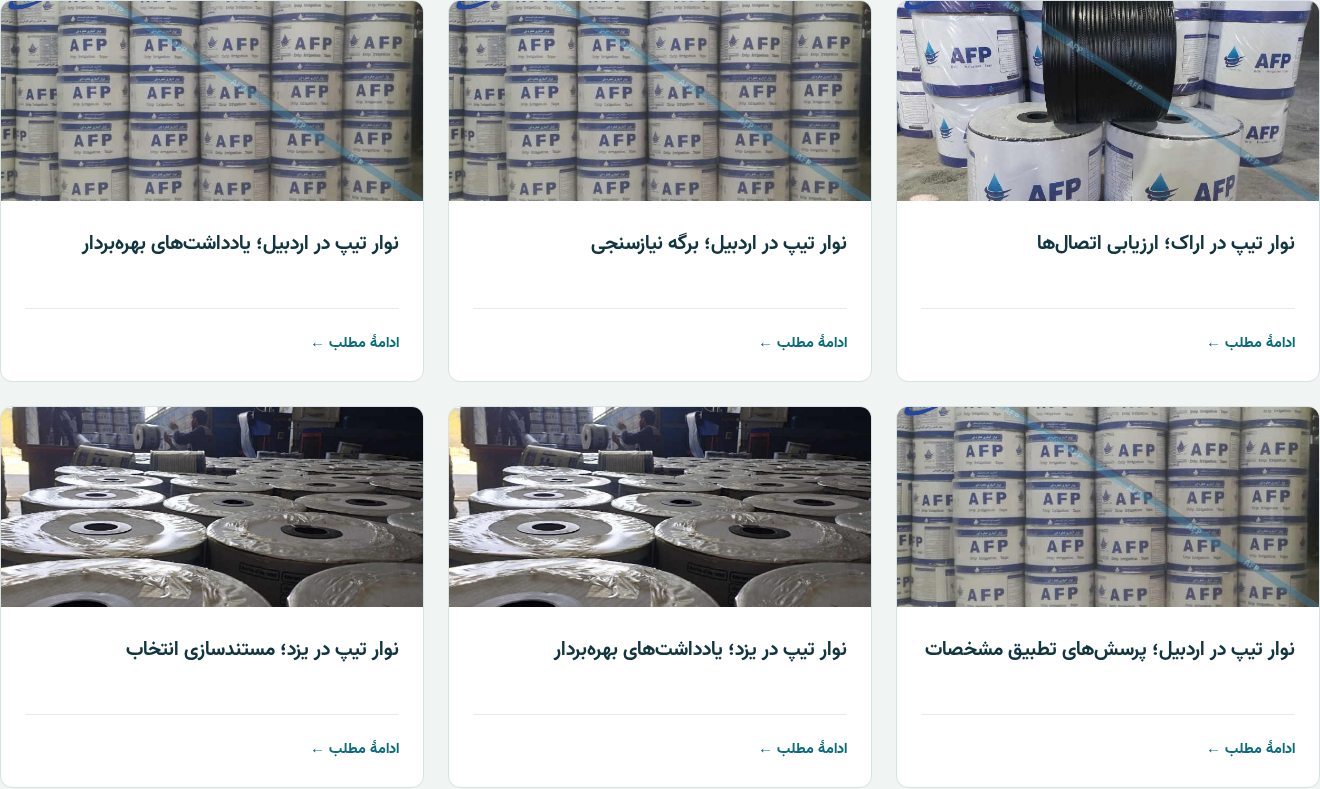
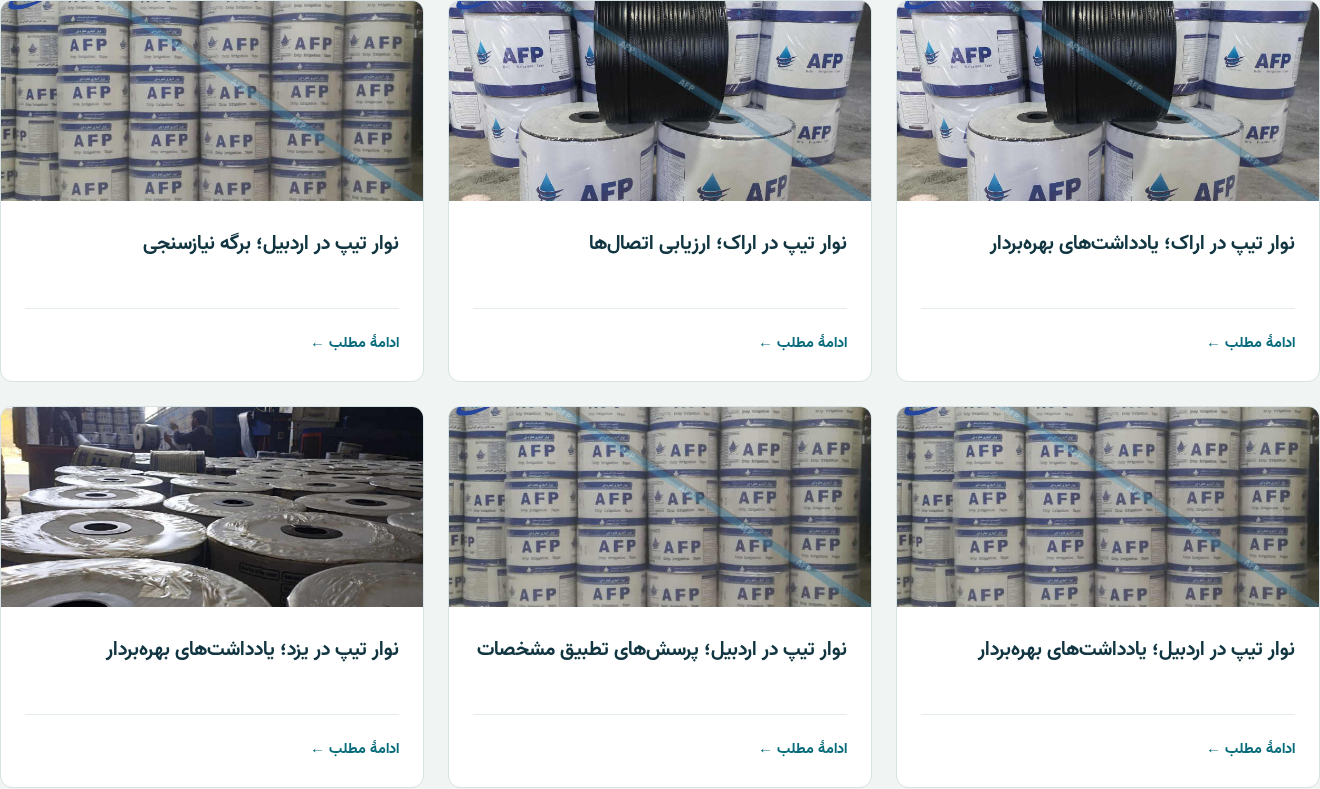
Checkpoint verified Blogsky native outcome [skip ci]

diff --git a/artifacts/blogsky-backlink-queue/home-card-images/before.html b/artifacts/blogsky-backlink-queue/home-card-images/before.html
@@ -27,12 +27,12 @@ body:has(#afp-home) .sidebar>.menu:has(>.head>a[href="/posts"]) a:focus-visible{
 @media(max-width:760px){body:has(#afp-home) .sidebar>.menu:has(>.head>a[href="/posts"])>ul{width:calc(100% - 40px)}#afp-home #guides{padding-top:40px}}
 @media(max-width:650px){body:has(#afp-home) .sidebar>.menu:has(>.head>a[href="/posts"])>ul{grid-template-columns:minmax(0,1fr)}#afp-home .afp-journal-heading{align-items:flex-start;flex-direction:column;gap:12px}}
 /*]]>*//* AFP_LIVE_CARD_IMAGES_START */
+body:has(#afp-home) .sidebar>.menu:has(>.head>a[href="/posts"])>ul>li>a[href="/1405/08/06/post-27/nvar-tip-dar-arag-erzeabi-ettesal-ha"]::before{background-image:url("https://navar-abyari.ir/wp-content/uploads/%D9%86%D9%88%D8%A7%D8%B1-%D8%A2%D8%A8%DB%8C%D8%A7%D8%B1%DB%8C.jpg");background-size:cover;background-position:center}
 body:has(#afp-home) .sidebar>.menu:has(>.head>a[href="/posts"])>ul>li>a[href="/1405/08/06/post-26/navar-tip-ardabil-needs-assessment"]::before{background-image:url("https://navar-abyari.ir/wp-content/uploads/%D9%86%D9%88%D8%A7%D8%B1-%D8%AA%DB%8C%D9%BE-%D8%A7%D8%B1%D8%AF%D8%A8%DB%8C%D9%84.jpg");background-size:cover;background-position:center}
 body:has(#afp-home) .sidebar>.menu:has(>.head>a[href="/posts"])>ul>li>a[href="/1405/08/06/post-25/navar-tip-dar-ardabil-yaddasht-haye-bahrebardar"]::before{background-image:url("https://navar-abyari.ir/wp-content/uploads/%D9%86%D9%88%D8%A7%D8%B1-%D8%AA%DB%8C%D9%BE-%D8%A7%D8%B1%D8%AF%D8%A8%DB%8C%D9%84.jpg");background-size:cover;background-position:center}
 body:has(#afp-home) .sidebar>.menu:has(>.head>a[href="/posts"])>ul>li>a[href="/1405/08/06/post-24/nvar-tip-dar-ardabil-porsesh-haye-tatbiq-mashehat"]::before{background-image:url("https://navar-abyari.ir/wp-content/uploads/%D9%86%D9%88%D8%A7%D8%B1-%D8%AA%DB%8C%D9%BE-%D8%A7%D8%B1%D8%AF%D8%A8%DB%8C%D9%84.jpg");background-size:cover;background-position:center}
 body:has(#afp-home) .sidebar>.menu:has(>.head>a[href="/posts"])>ul>li>a[href="/1405/08/05/post-23/navar-tip-yazd-yaddasht-bahrebardar"]::before{background-image:url("https://navar-abyari.ir/wp-content/uploads/%D9%86%D9%88%D8%A7%D8%B1-%D8%A2%D8%A8%DB%8C%D8%A7%D8%B1%DB%8C-%DB%8C%D8%B2%D8%AF-%D8%B9%D8%A7%D9%84%DB%8C.jpg");background-size:cover;background-position:center}
 body:has(#afp-home) .sidebar>.menu:has(>.head>a[href="/posts"])>ul>li>a[href="/1405/08/05/post-22/nvar-tip-dar-yazd-mosadagesazi-intekhob"]::before{background-image:url("https://navar-abyari.ir/wp-content/uploads/%D9%86%D9%88%D8%A7%D8%B1-%D8%A2%D8%A8%DB%8C%D8%A7%D8%B1%DB%8C-%DB%8C%D8%B2%D8%AF-%D8%B9%D8%A7%D9%84%DB%8C.jpg");background-size:cover;background-position:center}
-body:has(#afp-home) .sidebar>.menu:has(>.head>a[href="/posts"])>ul>li>a[href="/1405/08/05/post-21/navar-tip-yazd-filter-status"]::before{background-image:url("https://navar-abyari.ir/wp-content/uploads/%D9%86%D9%88%D8%A7%D8%B1-%D8%A2%D8%A8%DB%8C%D8%A7%D8%B1%DB%8C-%DB%8C%D8%B2%D8%AF-%D8%B9%D8%A7%D9%84%DB%8C.jpg");background-size:cover;background-position:center}
 /* AFP_LIVE_CARD_IMAGES_END */</style><div id="afp-home" lang="fa" dir="rtl">
 <div class="top"><div class="wrap"><span class="top-note">راهنمای کاربردی AFP · آبیاری و انتقال آب</span><a href="tel:+989134922013">مشاورهٔ انتخاب تجهیزات: ۰۹۱۳۴۹۲۲۰۱۳</a></div></div>
 <header><div class="wrap brandbar"><a class="brand" href="/"><img src="https://navar-abyari.ir/wp-content/uploads/نوار-تیپ-afp-drip-tape.png" alt="لوگوی AFP" width="52" height="52" /><span><strong>آبگستر فرا پارسیان</strong><small>انتخاب آگاهانه، آبیاری بهتر</small></span></a><a class="btn alt" href="https://navar-abyari.ir/shop/">فروشگاه AFP ←</a></div><div class="navline"><nav class="wrap" aria-label="فهرست اصلی"><a href="#products">تجهیزات آبیاری</a><a href="#guides">راهنماها و یادداشتها</a><a href="#faq">پرسشهای متداول</a><a href="#contact">تماس و مشاوره</a></nav></div></header>

diff --git a/artifacts/blogsky-backlink-queue/home-card-images/candidate.html b/artifacts/blogsky-backlink-queue/home-card-images/candidate.html
@@ -27,12 +27,12 @@ body:has(#afp-home) .sidebar>.menu:has(>.head>a[href="/posts"]) a:focus-visible{
 @media(max-width:760px){body:has(#afp-home) .sidebar>.menu:has(>.head>a[href="/posts"])>ul{width:calc(100% - 40px)}#afp-home #guides{padding-top:40px}}
 @media(max-width:650px){body:has(#afp-home) .sidebar>.menu:has(>.head>a[href="/posts"])>ul{grid-template-columns:minmax(0,1fr)}#afp-home .afp-journal-heading{align-items:flex-start;flex-direction:column;gap:12px}}
 /*]]>*//* AFP_LIVE_CARD_IMAGES_START */
+body:has(#afp-home) .sidebar>.menu:has(>.head>a[href="/posts"])>ul>li>a[href="/1405/08/06/post-28/navar-tip-arag-ye-dasht-haye-bahrebardar"]::before{background-image:url("https://navar-abyari.ir/wp-content/uploads/%D9%86%D9%88%D8%A7%D8%B1-%D8%A2%D8%A8%DB%8C%D8%A7%D8%B1%DB%8C.jpg");background-size:cover;background-position:center}
 body:has(#afp-home) .sidebar>.menu:has(>.head>a[href="/posts"])>ul>li>a[href="/1405/08/06/post-27/nvar-tip-dar-arag-erzeabi-ettesal-ha"]::before{background-image:url("https://navar-abyari.ir/wp-content/uploads/%D9%86%D9%88%D8%A7%D8%B1-%D8%A2%D8%A8%DB%8C%D8%A7%D8%B1%DB%8C.jpg");background-size:cover;background-position:center}
 body:has(#afp-home) .sidebar>.menu:has(>.head>a[href="/posts"])>ul>li>a[href="/1405/08/06/post-26/navar-tip-ardabil-needs-assessment"]::before{background-image:url("https://navar-abyari.ir/wp-content/uploads/%D9%86%D9%88%D8%A7%D8%B1-%D8%AA%DB%8C%D9%BE-%D8%A7%D8%B1%D8%AF%D8%A8%DB%8C%D9%84.jpg");background-size:cover;background-position:center}
 body:has(#afp-home) .sidebar>.menu:has(>.head>a[href="/posts"])>ul>li>a[href="/1405/08/06/post-25/navar-tip-dar-ardabil-yaddasht-haye-bahrebardar"]::before{background-image:url("https://navar-abyari.ir/wp-content/uploads/%D9%86%D9%88%D8%A7%D8%B1-%D8%AA%DB%8C%D9%BE-%D8%A7%D8%B1%D8%AF%D8%A8%DB%8C%D9%84.jpg");background-size:cover;background-position:center}
 body:has(#afp-home) .sidebar>.menu:has(>.head>a[href="/posts"])>ul>li>a[href="/1405/08/06/post-24/nvar-tip-dar-ardabil-porsesh-haye-tatbiq-mashehat"]::before{background-image:url("https://navar-abyari.ir/wp-content/uploads/%D9%86%D9%88%D8%A7%D8%B1-%D8%AA%DB%8C%D9%BE-%D8%A7%D8%B1%D8%AF%D8%A8%DB%8C%D9%84.jpg");background-size:cover;background-position:center}
 body:has(#afp-home) .sidebar>.menu:has(>.head>a[href="/posts"])>ul>li>a[href="/1405/08/05/post-23/navar-tip-yazd-yaddasht-bahrebardar"]::before{background-image:url("https://navar-abyari.ir/wp-content/uploads/%D9%86%D9%88%D8%A7%D8%B1-%D8%A2%D8%A8%DB%8C%D8%A7%D8%B1%DB%8C-%DB%8C%D8%B2%D8%AF-%D8%B9%D8%A7%D9%84%DB%8C.jpg");background-size:cover;background-position:center}
-body:has(#afp-home) .sidebar>.menu:has(>.head>a[href="/posts"])>ul>li>a[href="/1405/08/05/post-22/nvar-tip-dar-yazd-mosadagesazi-intekhob"]::before{background-image:url("https://navar-abyari.ir/wp-content/uploads/%D9%86%D9%88%D8%A7%D8%B1-%D8%A2%D8%A8%DB%8C%D8%A7%D8%B1%DB%8C-%DB%8C%D8%B2%D8%AF-%D8%B9%D8%A7%D9%84%DB%8C.jpg");background-size:cover;background-position:center}
 /* AFP_LIVE_CARD_IMAGES_END */</style><div id="afp-home" lang="fa" dir="rtl">
 <div class="top"><div class="wrap"><span class="top-note">راهنمای کاربردی AFP · آبیاری و انتقال آب</span><a href="tel:+989134922013">مشاورهٔ انتخاب تجهیزات: ۰۹۱۳۴۹۲۲۰۱۳</a></div></div>
 <header><div class="wrap brandbar"><a class="brand" href="/"><img src="https://navar-abyari.ir/wp-content/uploads/نوار-تیپ-afp-drip-tape.png" alt="لوگوی AFP" width="52" height="52" /><span><strong>آبگستر فرا پارسیان</strong><small>انتخاب آگاهانه، آبیاری بهتر</small></span></a><a class="btn alt" href="https://navar-abyari.ir/shop/">فروشگاه AFP ←</a></div><div class="navline"><nav class="wrap" aria-label="فهرست اصلی"><a href="#products">تجهیزات آبیاری</a><a href="#guides">راهنماها و یادداشتها</a><a href="#faq">پرسشهای متداول</a><a href="#contact">تماس و مشاوره</a></nav></div></header>

diff --git a/templates/blogsky/afp-home.html b/templates/blogsky/afp-home.html
@@ -27,12 +27,12 @@ body:has(#afp-home) .sidebar>.menu:has(>.head>a[href="/posts"]) a:focus-visible{
 @media(max-width:760px){body:has(#afp-home) .sidebar>.menu:has(>.head>a[href="/posts"])>ul{width:calc(100% - 40px)}#afp-home #guides{padding-top:40px}}
 @media(max-width:650px){body:has(#afp-home) .sidebar>.menu:has(>.head>a[href="/posts"])>ul{grid-template-columns:minmax(0,1fr)}#afp-home .afp-journal-heading{align-items:flex-start;flex-direction:column;gap:12px}}
 /* AFP_LIVE_CARD_IMAGES_START */
+body:has(#afp-home) .sidebar>.menu:has(>.head>a[href="/posts"])>ul>li>a[href="/1405/08/06/post-28/navar-tip-arag-ye-dasht-haye-bahrebardar"]::before{background-image:url("https://navar-abyari.ir/wp-content/uploads/%D9%86%D9%88%D8%A7%D8%B1-%D8%A2%D8%A8%DB%8C%D8%A7%D8%B1%DB%8C.jpg");background-size:cover;background-position:center}
 body:has(#afp-home) .sidebar>.menu:has(>.head>a[href="/posts"])>ul>li>a[href="/1405/08/06/post-27/nvar-tip-dar-arag-erzeabi-ettesal-ha"]::before{background-image:url("https://navar-abyari.ir/wp-content/uploads/%D9%86%D9%88%D8%A7%D8%B1-%D8%A2%D8%A8%DB%8C%D8%A7%D8%B1%DB%8C.jpg");background-size:cover;background-position:center}
 body:has(#afp-home) .sidebar>.menu:has(>.head>a[href="/posts"])>ul>li>a[href="/1405/08/06/post-26/navar-tip-ardabil-needs-assessment"]::before{background-image:url("https://navar-abyari.ir/wp-content/uploads/%D9%86%D9%88%D8%A7%D8%B1-%D8%AA%DB%8C%D9%BE-%D8%A7%D8%B1%D8%AF%D8%A8%DB%8C%D9%84.jpg");background-size:cover;background-position:center}
 body:has(#afp-home) .sidebar>.menu:has(>.head>a[href="/posts"])>ul>li>a[href="/1405/08/06/post-25/navar-tip-dar-ardabil-yaddasht-haye-bahrebardar"]::before{background-image:url("https://navar-abyari.ir/wp-content/uploads/%D9%86%D9%88%D8%A7%D8%B1-%D8%AA%DB%8C%D9%BE-%D8%A7%D8%B1%D8%AF%D8%A8%DB%8C%D9%84.jpg");background-size:cover;background-position:center}
 body:has(#afp-home) .sidebar>.menu:has(>.head>a[href="/posts"])>ul>li>a[href="/1405/08/06/post-24/nvar-tip-dar-ardabil-porsesh-haye-tatbiq-mashehat"]::before{background-image:url("https://navar-abyari.ir/wp-content/uploads/%D9%86%D9%88%D8%A7%D8%B1-%D8%AA%DB%8C%D9%BE-%D8%A7%D8%B1%D8%AF%D8%A8%DB%8C%D9%84.jpg");background-size:cover;background-position:center}
 body:has(#afp-home) .sidebar>.menu:has(>.head>a[href="/posts"])>ul>li>a[href="/1405/08/05/post-23/navar-tip-yazd-yaddasht-bahrebardar"]::before{background-image:url("https://navar-abyari.ir/wp-content/uploads/%D9%86%D9%88%D8%A7%D8%B1-%D8%A2%D8%A8%DB%8C%D8%A7%D8%B1%DB%8C-%DB%8C%D8%B2%D8%AF-%D8%B9%D8%A7%D9%84%DB%8C.jpg");background-size:cover;background-position:center}
-body:has(#afp-home) .sidebar>.menu:has(>.head>a[href="/posts"])>ul>li>a[href="/1405/08/05/post-22/nvar-tip-dar-yazd-mosadagesazi-intekhob"]::before{background-image:url("https://navar-abyari.ir/wp-content/uploads/%D9%86%D9%88%D8%A7%D8%B1-%D8%A2%D8%A8%DB%8C%D8%A7%D8%B1%DB%8C-%DB%8C%D8%B2%D8%AF-%D8%B9%D8%A7%D9%84%DB%8C.jpg");background-size:cover;background-position:center}
 /* AFP_LIVE_CARD_IMAGES_END */</style><div id="afp-home" lang="fa" dir="rtl">
 <div class="top"><div class="wrap"><span class="top-note">راهنمای کاربردی AFP · آبیاری و انتقال آب</span><a href="tel:+989134922013">مشاورهٔ انتخاب تجهیزات: ۰۹۱۳۴۹۲۲۰۱۳</a></div></div>
 <header><div class="wrap brandbar"><a class="brand" href="/"><img src="https://navar-abyari.ir/wp-content/uploads/نوار-تیپ-afp-drip-tape.png" alt="لوگوی AFP" width="52" height="52"><span><strong>آبگستر فرا پارسیان</strong><small>انتخاب آگاهانه، آبیاری بهتر</small></span></a><a class="btn alt" href="https://navar-abyari.ir/shop/">فروشگاه AFP ←</a></div><div class="navline"><nav class="wrap" aria-label="فهرست اصلی"><a href="#products">تجهیزات آبیاری</a><a href="#guides">راهنماها و یادداشتها</a><a href="#faq">پرسشهای متداول</a><a href="#contact">تماس و مشاوره</a></nav></div></header>
